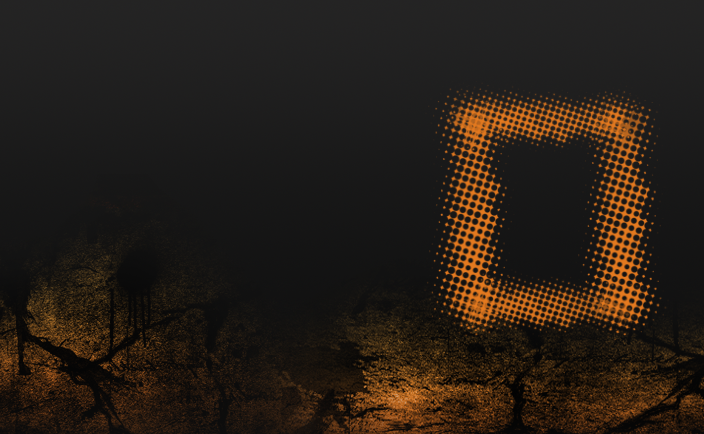
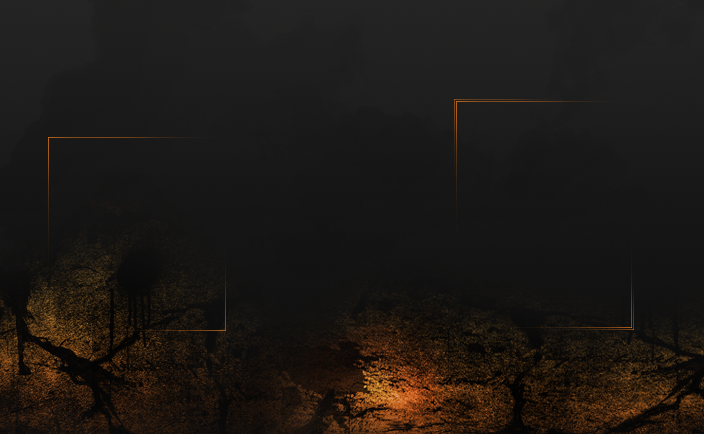
imprint tables removed, index fixed, new profile bg img added

diff --git a/imprint.php b/imprint.php
@@ -51,27 +51,19 @@ $headline2 = $_language->module['coding'];
 if($imprint_type) {
 
 	$ds=mysql_fetch_array(safe_query("SELECT imprint FROM `".PREFIX."imprint`"));
-	$imprint_head = htmloutput($ds['imprint'])."<br /><br />";
+	$imprint_head = htmloutput($ds['imprint']);
 
 } else{
 
-	$imprint_head='<table border="0" width="96%" align="center">
-    <tr>
-      <td colspan="2"><b>'.$_language->module['responsible_persons'].'</b></td>
-    </tr>
-    <tr>
-      <td width="130" valign="top"><br /><b>'.$_language->module['webmaster'].'</b></td>
-      <td><br /><a href="mailto:'.mail_protect($admin_email).'">'.$admin_name.'</a></td>
-    </tr>
-    <tr>
-      <td valign="top"><br /><b>'.$_language->module['admins'].'</b></td>
-      <td><br />'.$administrators.'</td>
-    </tr>
-    <tr>
-      <td valign="top"><br /><b>'.$_language->module['mods'].'</b></td>
-      <td><br />'.$moderators.'</td>
-    </tr>
-  </table>';
+	$imprint_head='<div>
+      <div colspan="2"><b>'.$_language->module['responsible_persons'].'</b></div>
+      <div width="130" valign="top"><br /><b>'.$_language->module['webmaster'].'</b></div>
+      <div><br /><a href="mailto:'.mail_protect($admin_email).'">'.$admin_name.'</a></div>
+      <div valign="top"><br /><b>'.$_language->module['admins'].'</b></div>
+      <div><br />'.$administrators.'</td>
+      <div valign="top"><br /><b>'.$_language->module['mods'].'</b></div>
+      <div><br />'.$moderators.'</div>
+  </div>';
 }
 
 eval ("\$imprint = \"".gettemplate("imprint")."\";");

diff --git a/index.php b/index.php
@@ -41,7 +41,6 @@ $index_language = $_language->module;
     <head>
         <meta charset="utf-8">
         <title><?php echo PAGETITLE; ?></title>
-        <meta name="viewport" content="width=device-width">
         <link rel="stylesheet" type="text/css" href="css/normalize.css" />
         <link rel="stylesheet" type="text/css" href="css/main.css" />
 		<link rel="stylesheet" type="text/css" href="css/slider.css" />
